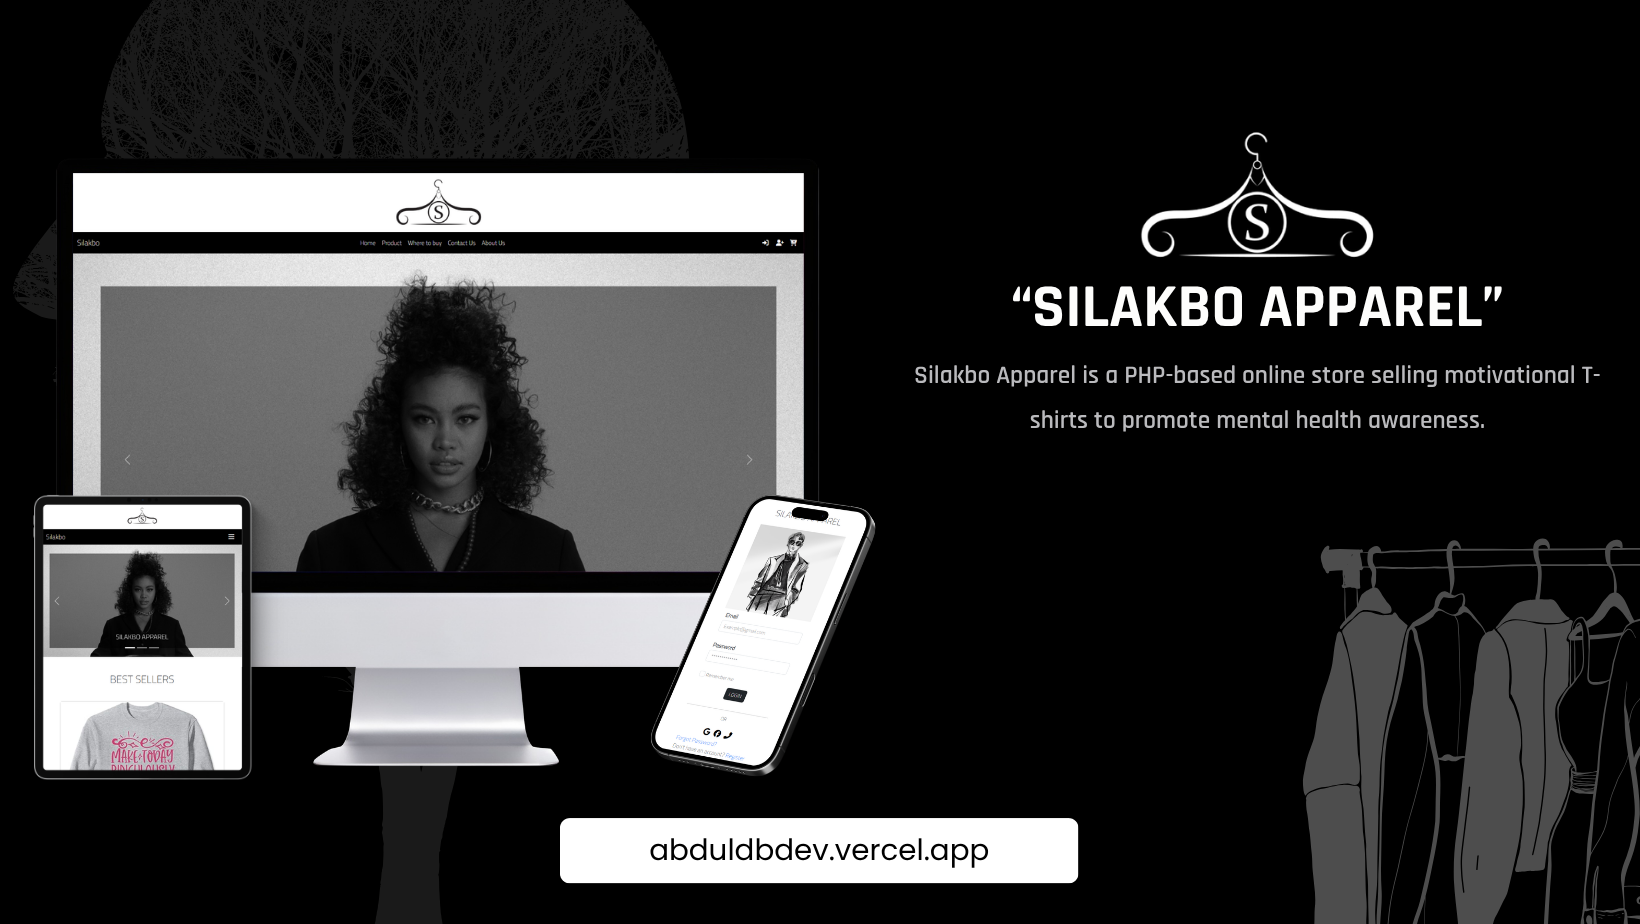
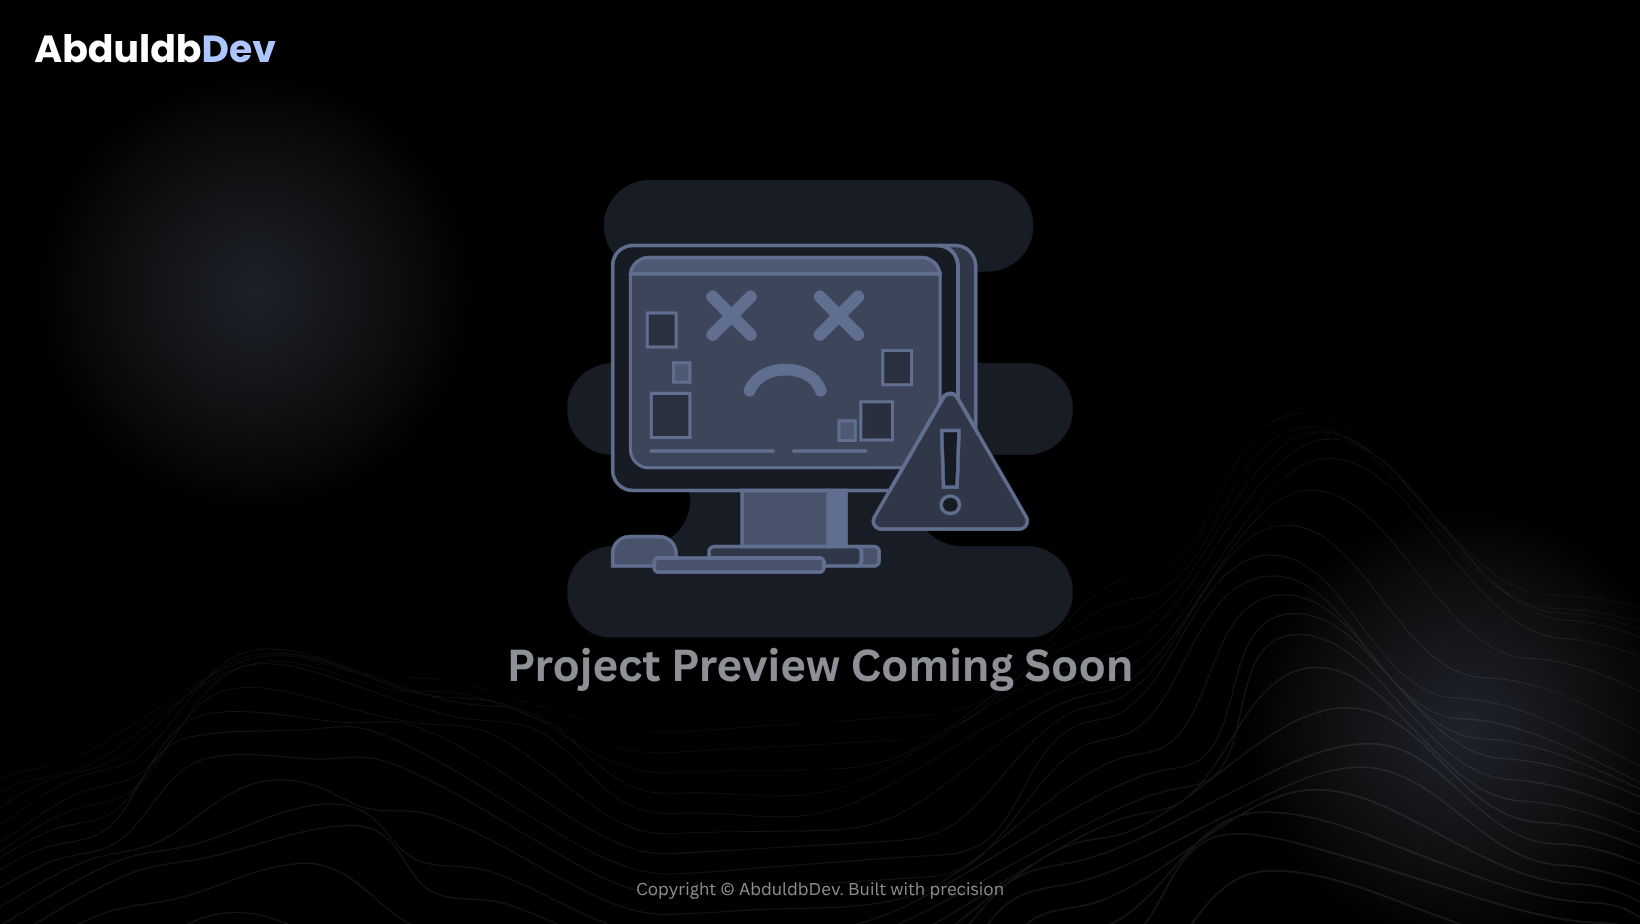
Update

diff --git a/src/components/about/Publication.jsx b/src/components/about/Publication.jsx
@@ -3,95 +3,133 @@ import Link from "next/link";
 
 export default function Publication() {
   return (
-    <section className="mb-10 sm:mb-section-gap">
+    <section className="mb-8 sm:mb-section-gap">
       <div
         data-aos="fade-up"
-        className="flex items-end justify-between mb-8 sm:mb-12 gap-4"
+        className="flex items-end justify-between mb-6 sm:mb-12 gap-3 sm:gap-4"
       >
         <div className="min-w-0 shrink">
-          <h2 className="font-headline-sm text-headline-sm-xs sm:text-headline-sm text-text-primary">
+          <h2 className="font-headline-sm text-xl sm:text-headline-sm text-text-primary">
             Research Publications
           </h2>
-          <p className="text-text-muted mt-1 sm:mt-2 text-sm sm:text-base">
+          <p className="text-text-muted mt-1 text-xs sm:text-base">
             Contributing to the academic discourse on digital transformation and
             logistics technology.
           </p>
         </div>
-        <div className="h-px grow mx-4 sm:mx-8 bg-border-hairline mb-4 hidden md:block" />
+        <div className="h-px grow mx-8 bg-border-hairline mb-4 hidden md:block" />
       </div>
 
       <div
         data-aos="fade-up"
         data-aos-delay="100"
-        className="glass-card p-5 sm:p-8 rounded-xl"
+        className="glass-card p-4 sm:p-8 rounded-xl"
       >
-        <div className="flex flex-col gap-6">
-          <div className="flex flex-col md:flex-row justify-between items-start gap-4">
+        <div className="flex flex-col gap-5 sm:gap-6">
+          <div className="flex flex-col md:flex-row justify-between items-start gap-3 sm:gap-4">
             <div className="grow">
-              <h3 className="font-headline-sm text-headline-sm-xs sm:text-headline-sm mb-2 sm:mb-3">
+              <h3 className="font-headline-sm text-lg sm:text-headline-sm mb-2">
                 Development of a Delivery Application for Star Express Cargo
               </h3>
-              <p className="text-text-primary font-body-lg mb-2">
+
+              <p className="text-text-primary text-sm sm:font-body-lg mb-1 sm:mb-2">
                 Proceedings of 2025 11th International Conference on e-Society,
                 e-Learning and e-Technologies (ICSLT 2025)
               </p>
-              <p className="text-text-muted font-body-base mb-4">
+
+              <p className="text-text-muted text-xs sm:font-body-base mb-4 sm:mb-6">
                 Springer Nature - Lecture Notes in Networks and Systems
               </p>
-              <div className="flex flex-wrap gap-2 mb-6">
-                <span className="px-3 py-1 bg-primary/10 text-primary text-[10px] font-label-caps rounded-full border border-primary/20">
+
+              <div className="flex flex-wrap gap-2 mb-4 sm:mb-6">
+                <span className="px-2.5 py-1 bg-primary/10 text-primary text-[9px] sm:text-[10px] font-label-caps rounded-full border border-primary/20">
                   Scopus-Indexed
                 </span>
-                <span className="px-3 py-1 bg-surface-container text-text-muted text-[10px] font-label-caps rounded-full border border-border-hairline">
+
+                <span className="px-2.5 py-1 bg-surface-container text-text-muted text-[9px] sm:text-[10px] font-label-caps rounded-full border border-border-hairline">
                   EID: 2-s2.0-105039302002
                 </span>
+
                 <a
                   href="https://doi.org/10.1007/978-3-032-13153-9_22"
                   target="_blank"
                   rel="noopener noreferrer"
-                  className="px-3 py-1 bg-primary/10 text-primary text-[10px] font-label-caps rounded-full border border-primary/20 hover:bg-primary hover:text-canvas transition-colors"
+                  className="px-2.5 py-1 bg-primary/10 text-primary text-[9px] sm:text-[10px] font-label-caps rounded-full border border-primary/20 hover:bg-primary hover:text-canvas transition-colors"
                 >
                   DOI: 10.1007/978-3-032-13153-9_22
                 </a>
               </div>
+              <a
+                href="https://doi.org/10.1007/978-3-032-13153-9_22"
+                target="_blank"
+                rel="noopener noreferrer"
+                className="inline-flex items-center gap-2 px-5 py-1 bg-primary text-on-primary font-label-caps text-label-caps-xs rounded-full hover:scale-[1.02] hover:opacity-90 transition-all"
+              >
+                View Publication
+                <svg
+                  xmlns="http://www.w3.org/2000/svg"
+                  width="16"
+                  height="16"
+                  viewBox="0 0 24 24"
+                  fill="none"
+                  stroke="currentColor"
+                  strokeWidth="2"
+                  strokeLinecap="round"
+                  strokeLinejoin="round"
+                >
+                  <path d="M7 17L17 7" />
+                  <path d="M7 7h10v10" />
+                </svg>
+              </a>
             </div>
-            <div className="flex flex-col items-start md:items-end gap-2 shrink-0">
-              <span className="font-label-caps text-label-caps text-text-muted">
+
+            <div className="flex flex-col items-start md:items-end gap-1 shrink-0">
+              <span className="font-label-caps text-[10px] sm:text-label-caps text-text-muted">
                 First Online
               </span>
-              <span className="font-body-base text-text-primary">
+              <span className="text-sm sm:font-body-base text-text-primary">
                 01 April 2026
               </span>
             </div>
           </div>
-          <div className="grid grid-cols-1 md:grid-cols-2 gap-6 pt-6 border-t border-border-hairline">
+
+          <div className="grid grid-cols-1 md:grid-cols-2 gap-4 sm:gap-6 pt-4 sm:pt-6 border-t border-border-hairline">
             <div>
-              <span className="font-label-caps text-[10px] text-text-muted uppercase block mb-2">
+              <span className="font-label-caps text-[9px] sm:text-[10px] text-text-muted uppercase block mb-2">
                 Authors
               </span>
-              <p className="text-text-secondary font-body-base">
+              <p className="text-text-secondary text-sm sm:font-body-base">
                 Zyrha Alliah Rausa, Andrea Charisse Celino, Abdul Aziz De Borja,
                 &amp; Marco Paulo Burgos
               </p>
             </div>
-            <div className="flex flex-wrap gap-x-8 gap-y-2">
+
+            <div className="flex flex-wrap gap-x-6 sm:gap-x-8 gap-y-3 sm:gap-y-2">
               <div>
-                <span className="font-label-caps text-[10px] text-text-muted uppercase block mb-1">
+                <span className="font-label-caps text-[9px] sm:text-[10px] text-text-muted uppercase block mb-1">
                   Volume
                 </span>
-                <p className="text-text-secondary font-body-base">1754 LNNS</p>
+                <p className="text-text-secondary text-sm sm:font-body-base">
+                  1754 LNNS
+                </p>
               </div>
+
               <div>
-                <span className="font-label-caps text-[10px] text-text-muted uppercase block mb-1">
+                <span className="font-label-caps text-[9px] sm:text-[10px] text-text-muted uppercase block mb-1">
                   Pages
                 </span>
-                <p className="text-text-secondary font-body-base">285–297</p>
+                <p className="text-text-secondary text-sm sm:font-body-base">
+                  285–297
+                </p>
               </div>
+
               <div>
-                <span className="font-label-caps text-[10px] text-text-muted uppercase block mb-1">
+                <span className="font-label-caps text-[9px] sm:text-[10px] text-text-muted uppercase block mb-1">
                   ISSN
                 </span>
-                <p className="text-text-secondary font-body-base">23673370</p>
+                <p className="text-text-secondary text-sm sm:font-body-base">
+                  23673370
+                </p>
               </div>
             </div>
           </div>

diff --git a/src/data/projects.js b/src/data/projects.js
@@ -44,30 +44,6 @@ export const fetchProjectById = async (id) => {
   }
 };
 
-/**
- * Insert a new project document into Firestore.
- *
- * Expected shape:
- * {
- *   Title        : string        — display title
- *   category     : string        — "commission" | "mini" | "personal" | "academic"
- *   description  : string        — short card description
- *   overview     : string[]      — paragraph(s) for the detail page
- *   problems     : string[]      — bullet list of problems solved
- *   solutions    : { title, body }[]
- *   features     : { title, body }[]
- *   stack        : string[]      — tech stack labels
- *   tags         : string[]      — card tags
- *   Img          : string        — cover image URL
- *   heroImage    : string        — hero image URL (can be same as Img)
- *   screenshots  : string[]      — array of screenshot URLs
- *   demoUrl      : string
- *   projectUrl   : string        — GitHub or repo URL
- *   codeSnippet  : string        — optional code block text
- *   snippetFile  : string        — optional filename label for snippet
- *   Date         : Timestamp     — auto-set to now if omitted
- * }
- */
 export const insertProject = async (data) => {
   try {
     const payload = {

diff --git a/src/app/projects/[slug]/page.jsx b/src/app/projects/[slug]/page.jsx
@@ -1,5 +1,5 @@
 "use client";
-
+import Link from "next/link";
 import React, { useEffect, useState } from "react";
 import { useParams } from "next/navigation";
 import { doc, getDoc } from "firebase/firestore";
@@ -94,12 +94,28 @@ export default function ProjectDetails() {
   return (
     <main className="pt-5 sm:pt-10 pb-24 overflow-x-hidden">
       {}
+
       <section className="relative flex flex-col items-center justify-center px-5 sm:px-6 md:px-margin-desktop pb-7 sm:pb-20 pt-16 sm:pt-24 text-center overflow-hidden w-full">
         <div className="absolute inset-0 pointer-events-none">
           <div className="absolute top-1/2 left-1/2 -translate-x-1/2 -translate-y-1/2 w-[600px] h-[600px] bg-primary/5 rounded-full blur-3xl" />
         </div>
 
-        <div className="relative z-10 max-w-3xl mx-auto" data-aos="fade-up">
+        <div
+          className="relative z-10 w-full max-w-3xl mx-auto"
+          data-aos="fade-up"
+        >
+          <div className="flex justify-start mb-6 sm:mb-8">
+            <Link
+              href="/projects"
+              className="inline-flex items-center gap-2 text-text-secondary hover:text-primary transition-colors font-label-caps text-label-caps-xs sm:text-label-caps"
+            >
+              <span className="material-symbols-outlined text-[18px]">
+                arrow_back
+              </span>
+              Back
+            </Link>
+          </div>
+
           <span
             className={`inline-block mb-4 px-3 py-1 border rounded-full font-label-caps text-label-caps-xs sm:text-label-caps tracking-widest uppercase ${badgeColor}`}
           >

diff --git a/src/components/cards/ReviewCard.jsx b/src/components/cards/ReviewCard.jsx
@@ -5,23 +5,24 @@ export default function ReviewCard({ data, index }) {
     <div
       data-aos="fade-up"
       data-aos-delay={index * 100}
-      className="glass-card p-6 rounded-xl flex flex-col gap-4"
+      className="glass-card p-4 sm:p-6 rounded-xl flex flex-col gap-3 sm:gap-4"
     >
-      <div className="flex justify-between items-start">
-        <div className="flex flex-col">
-          <h3 className="font-headline-sm text-[18px] text-text-primary leading-tight">
+      <div className="flex justify-between items-start gap-3">
+        <div className="flex flex-col min-w-0">
+          <h3 className="font-headline-sm text-base sm:text-[18px] text-text-primary leading-tight">
             {data.userName}
           </h3>
-          <p className="font-body-base text-sm text-text-muted">
+
+          <p className="font-body-base text-xs sm:text-sm text-text-muted">
             {data.position}
           </p>
         </div>
 
-        <div className="flex">
+        <div className="flex shrink-0">
           {[...Array(5)].map((_, i) => (
             <span
               key={i}
-              className="material-symbols-outlined text-[16px] text-yellow-400"
+              className="material-symbols-outlined text-sm sm:text-[16px] text-yellow-400"
               style={{
                 fontVariationSettings: `'FILL' ${i < data.rate ? 1 : 0}, 'wght' 400, 'GRAD' 0, 'opsz' 24`,
               }}
@@ -32,7 +33,7 @@ export default function ReviewCard({ data, index }) {
         </div>
       </div>
 
-      <p className="font-body-base text-text-secondary italic">
+      <p className="font-body-base text-sm sm:text-base text-text-secondary italic leading-relaxed">
         "{data.content}"
       </p>
     </div>

diff --git a/src/components/home/Hero.jsx b/src/components/home/Hero.jsx
@@ -4,6 +4,7 @@ import React, { useEffect, useState } from "react";
 import TerminalCard from "@/components/cards/TerminalCard";
 import { Sparkles } from "lucide-react";
 import TypewriterHeading from "../ui/typewriter";
+import Link from "next/link";
 
 export default function Hero() {
   return (
@@ -45,16 +46,12 @@ export default function Hero() {
               >
                 Download Resume
               </button>
-              <button
-                onClick={() => {
-                  const link = document.createElement("a");
-                  link.href = "/projects";
-                  link.click();
-                }}
+              <Link
+                href="/projects"
                 className="bg-transparent border border-border-hairline text-text-secondary px-5 sm:px-8 py-3 sm:py-4 rounded font-label-caps text-label-caps-xs sm:text-label-caps hover:border-text-primary hover:text-text-primary transition-all"
               >
                 Explore My Work
-              </button>
+              </Link>
             </div>
           </div>
           <div

diff --git a/src/components/layout/AOSProvider.jsx b/src/components/layout/AOSProvider.jsx
@@ -7,12 +7,16 @@ import "aos/dist/aos.css";
 export default function AOSProvider() {
   useEffect(() => {
     AOS.init({
-      duration: 600,
-      easing: "ease-out-cubic",
+      duration: 500,
+      easing: "ease-out",
       once: false,
-      offset: 60,
+      offset: 20,
       delay: 0,
+      mirror: false,
+      anchorPlacement: "top-bottom",
     });
+
+    AOS.refresh();
   }, []);
 
   return null;

diff --git a/src/components/ui/terminal.jsx b/src/components/ui/terminal.jsx
@@ -121,10 +121,18 @@ function useAudio(enabled) {
   const playSound = (sound) => {
     if (!readyRef.current || !ctxRef.current || !bufferRef.current || !sound)
       return;
+
     if (ctxRef.current.state === "suspended") ctxRef.current.resume();
+
     const src = ctxRef.current.createBufferSource();
+    const gainNode = ctxRef.current.createGain();
+
+    gainNode.gain.value = 0.2; // 20% volume (0.0 - 1.0)
+
     src.buffer = bufferRef.current;
-    src.connect(ctxRef.current.destination);
+    src.connect(gainNode);
+    gainNode.connect(ctxRef.current.destination);
+
     src.start(0, sound[0] / 1000, sound[1] / 1000);
   };
 

diff --git a/src/components/home/CTA.jsx b/src/components/home/CTA.jsx
@@ -1,4 +1,5 @@
 import React from "react";
+import Link from "next/link";
 
 export default function CTA() {
   return (
@@ -16,7 +17,7 @@ export default function CTA() {
           every step.
         </p>
         <div className="pt-4 sm:pt-6">
-          <a
+          <Link
             className="inline-flex items-center gap-2 font-label-caps text-label-caps text-primary group"
             href="/contact"
           >
@@ -24,7 +25,7 @@ export default function CTA() {
             <span className="material-symbols-outlined group-hover:translate-x-1 transition-transform">
               arrow_forward
             </span>
-          </a>
+          </Link>
         </div>
       </div>
     </section>

diff --git a/src/app/about/page.jsx b/src/app/about/page.jsx
@@ -7,7 +7,7 @@ import Publication from "@/components/about/Publication";
 export default function About() {
   return (
     <>
-      <main className="max-w-7xl mx-auto px-5 sm:px-6 md:px-margin-desktop mb-16 sm:mb-24 lg:mb-30 relative z-10">
+      <main className="max-w-7xl mx-auto px-5 sm:px-6 md:px-margin-desktop mb-16 sm:mb-24 lg:mb-30 relative z-10 overflow-hidden">
         <Biography />
         <Experience />
         <Education />

diff --git a/src/app/layout.jsx b/src/app/layout.jsx
@@ -9,6 +9,8 @@ import SplashScreen from "@/components/layout/SplashScreen";
 import { Geist } from "next/font/google";
 import { cn } from "@/lib/utils";
 
+import metadata from "@/data/metadata";
+export { metadata };
 const geist = Geist({ subsets: ["latin"], variable: "--font-sans" });
 
 export default function RootLayout({ children }) {

diff --git a/src/app/projects/page.jsx b/src/app/projects/page.jsx
@@ -46,7 +46,7 @@ export default function ProjectsPage() {
 
       {/* Filter bar — horizontally scrollable on mobile */}
       <div data-aos="fade-up" data-aos-delay="50" className="mb-10 sm:mb-12">
-        <div className="flex gap-2 overflow-x-auto scrollbar-hide pt-1 pb-3 border-b border-border-hairline">
+        <div className="flex gap-2 overflow-x-auto scrollbar-hide pt-1 pb-5 border-b border-border-hairline">
           {filters.map(({ key, label }) => (
             <button
               key={key}

diff --git a/src/components/expertise/BentoGrid.jsx b/src/components/expertise/BentoGrid.jsx
@@ -170,7 +170,7 @@ export default function BentoGrid() {
         className="md:col-span-8 glass-card p-4 sm:p-card-padding rounded-xl"
       >
         <SectionHeader icon="code">Languages</SectionHeader>
-        <div className="grid grid-cols-4 gap-2 sm:gap-3">
+        <div className="grid grid-cols-3 md:grid-cols-4 gap-2 sm:gap-3">
           {TECH_STACK.languages.map(({ icon, label, fallback }) => (
             <PillCard
               key={label}